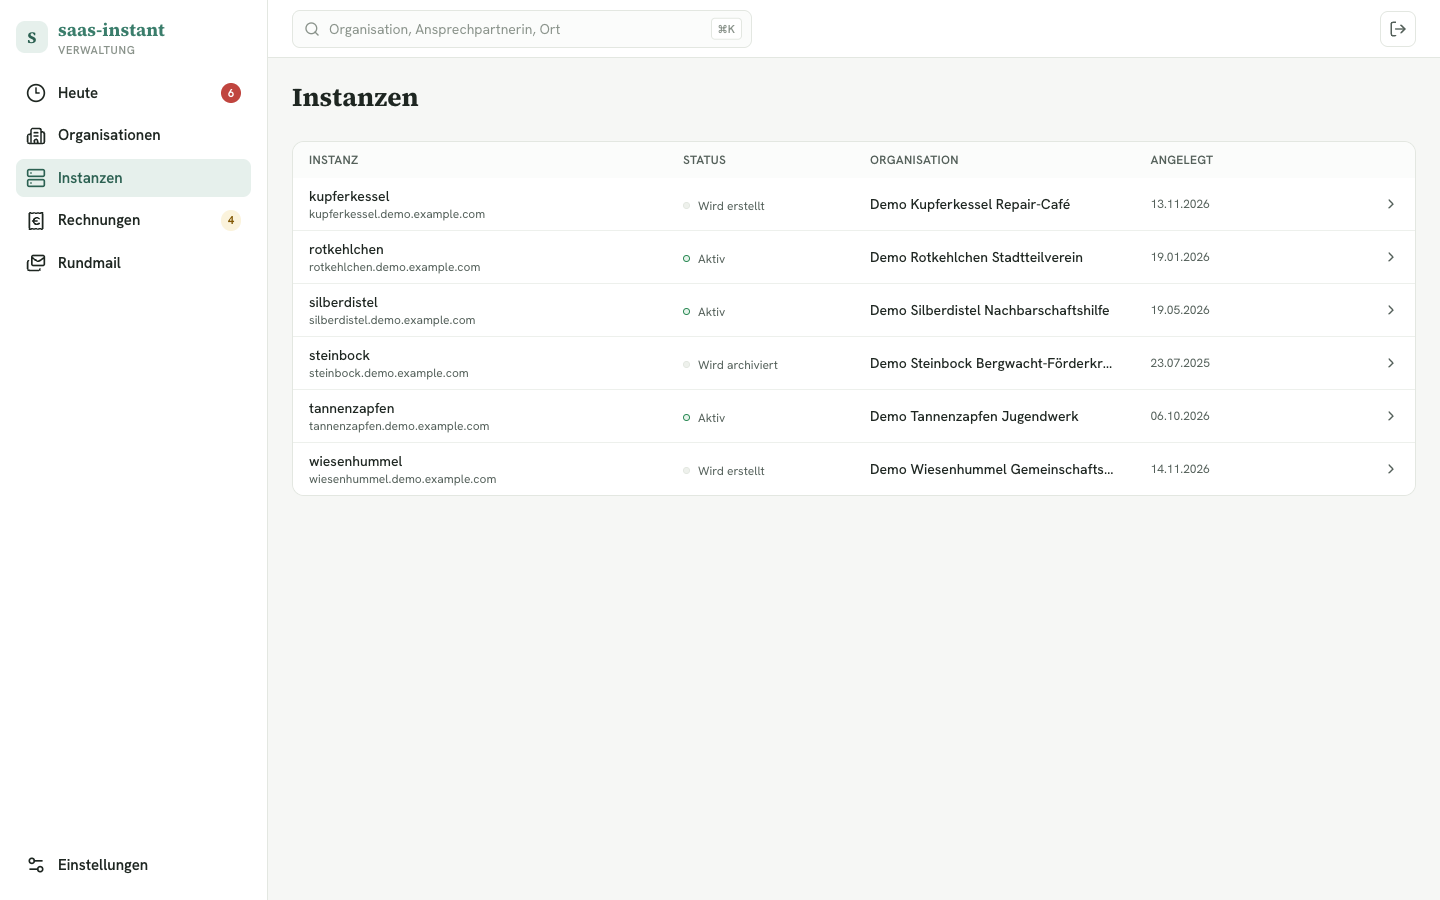
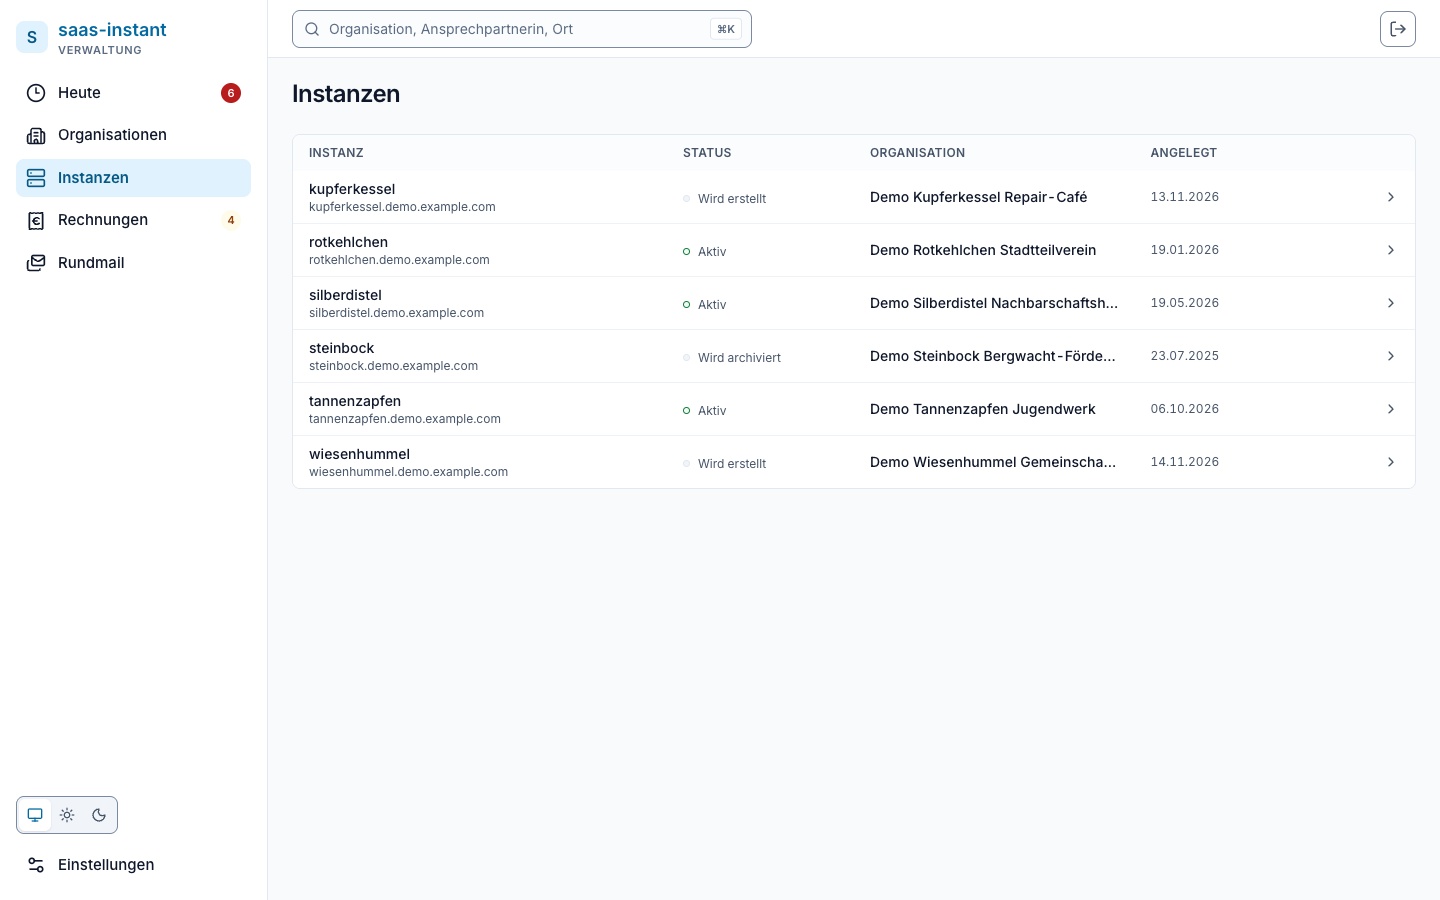
Doku: neue Screenshots, Teststand, Betriebs- und Sicherheitshinweise
- Screenshots im neuen Design (hell, dunkel, Portal)
- README: ehrlicher Teststand, Einschränkungen aktualisiert
- SECURITY, NOTICE, Betriebsdokumente an den Stand angepasst

diff --git a/docs/operations/security-model.md b/docs/operations/security-model.md
@@ -53,9 +53,10 @@ Anmeldemittel ersetzt der Betreiber im Container ([emergency-access.md](emergenc
 | E-Mail-Code | 8 Stellen, 10 Minuten gültig, nach 3 Fehleingaben verbrannt; die Zahl liegt bewusst unter der Kontosperre, damit man sich nicht durch Raten aussperrt |
 | Anmelderoute | 5 Versuche je Minute; übrige Routen 100 je Minute |
 | Antworten der Anmeldung | gleich für bekannte und unbekannte Konten, mit Scheinhash gegen Zeitunterschiede: die Anmeldeseite ist kein Kontoverzeichnis |
-| Sitzung | httpOnly-Cookie, `SameSite=Strict`, `Secure` hinter TLS, 30 Tage und erneuert sich bei Nutzung einmal je Tag |
+| Sitzung | httpOnly-Cookie, `SameSite=Strict`, `Secure` hinter TLS, 30 Tage und erneuert sich bei Nutzung einmal je Tag; absolute Obergrenze 90 Tage ab der Anmeldung, auch bei laufender Erneuerung |
 | laufender Anmeldevorgang | eigenes kurzlebiges Cookie, 10 Minuten |
-| Beenden aller Sitzungen | „Alle abmelden“, Passwortwechsel und jede Passkey-Änderung beenden sofort alle laufenden Sitzungen |
+| Beenden aller Sitzungen | „Abmelden“, „Alle abmelden“, Passwortwechsel und jede Passkey-Änderung beenden sofort alle laufenden Sitzungen des Kontos |
+| TOTP-Codes | einmalig verwendbar: der Zeitschritt des zuletzt angenommenen Codes wird gespeichert (atomar), derselbe Code wird nicht ein zweites Mal akzeptiert |
 | CSRF | Double-Submit-Cookie, ein Ausnahmeweg muss begründet sein (`@WithoutCsrf`) |
 
 **Zweiter Faktor für sensible Aktionen.** Zahlungsdaten ansehen, Zahlungen
@@ -78,7 +79,7 @@ Im Repository liegen nur Beispieldateien mit Platzhaltern (`.env.example`).
 
 | Geheimnis | Zweck | Besonderheit |
 |---|---|---|
-| `JWT_SECRET` | signiert Sitzungs- und Vorgangs-Token | fehlt es, startet die Anwendung nicht |
+| `JWT_SECRET` | signiert Sitzungs- und Vorgangs-Token | wird beim Start geprüft: mindestens 32 Zeichen und kein Beispielwert, sonst startet die Anwendung nicht |
 | `CONTROL_CONFIG_KEY` | Schlüssel für ruhende Geheimnisse (Abschnitt 4) | mindestens 32 Zeichen, **kein Entwicklungs-Fallback**; ohne ihn startet die Anwendung nicht |
 | `CONTROL_POSTGRES_PASSWORD` | Datenbank der Verwaltung | nur bei der ersten Einrichtung wirksam |
 | `CONTROL_BACKUP_KEY` | Meldeweg des Sicherungswerkzeugs | mindestens 32 Zeichen; ungesetzt existiert die Route nicht (404) |
@@ -148,7 +149,8 @@ gesicherte Backups. Das ist Aufgabe des Betreibers.
   verworfen, nicht halb übernommen.
 - Der Rechnungsdienst hat weder Anmeldung noch Rechteprüfung und gehört
   ausschließlich ins interne Netz, ohne Domain und ohne veröffentlichten Port.
-- `CONTROL_TRUST_PROXY` muss genau zur Zahl der Proxys passen (0, 1 oder 2). Zu hoch
+- Der Docker-Port von `control-web` ist standardmäßig an `127.0.0.1` gebunden (`CONTROL_WEB_BIND`). Wer ihn auf eine öffentliche Adresse legt, muss ihn per Firewall außerhalb von Docker schützen, weil `X-Forwarded-For` sonst frei wählbar ist.
+- `CONTROL_TRUST_PROXY` muss genau zur Zahl der Proxys passen (0, 1 oder 2; `CONTROL_INQUIRY_TRUST_PROXY` für den Anfrageweg je nach Kette 2 bis 4, siehe [installation.md](../installation.md)). Zu hoch
   macht die IP im Audit-Log und das Rate-Limit fälschbar, zu niedrig bewirkt nur,
   dass die Adresse des Proxys im Log steht.
 

diff --git a/README.md b/README.md
@@ -29,14 +29,15 @@ Alle Punkte sind im Code vorhanden; ob sie in Ihrer Umgebung laufen, hängt von 
 
 ## Screenshots
 
-Aufgenommen mit den frei erfundenen Demo-Daten aus `pnpm --filter @saas-instant/control seed:demo` (siehe [CONTRIBUTING.md](CONTRIBUTING.md)).
+Aufgenommen mit den frei erfundenen Demo-Daten aus `pnpm --filter @saas-instant/control seed:demo` (siehe [CONTRIBUTING.md](CONTRIBUTING.md)). Das Design ist bewusst neutral (Inter, Slate-Grau, ein ruhiger Blauakzent) und folgt automatisch dem hellen oder dunklen Farbschema des Systems; in der Seitenleiste lässt es sich auch von Hand umschalten.
 
 | | |
 |---|---|
 | ![Tagesübersicht](docs/screenshots/02-dashboard.png)<br>**Heute:** offene Aufgaben aus Rechnungen und Instanzen | ![Organisationen](docs/screenshots/03-companies.png)<br>**Organisationen** mit Status |
 | ![Organisation](docs/screenshots/04-company-detail.png)<br>**Organisation:** Kontakt, Verlauf, nächste Schritte | ![Instanzen](docs/screenshots/05-instances.png)<br>**Instanzen** je Organisation |
 | ![Rechnungen](docs/screenshots/06-invoices.png)<br>**Rechnungen** | ![Rechnung](docs/screenshots/07-invoice-detail.png)<br>**Rechnung** mit PDF/XML, Zahlung, Erinnerung |
-| ![Anmeldung](docs/screenshots/01-login.png)<br>**Anmeldung** mit Passkey oder Passwort + zweitem Faktor | ![Portal](docs/screenshots/09-portal.png)<br>**Portal** (Modus „Portal“): Liste der Verwaltungen |
+| ![Rechnungen, dunkel](docs/screenshots/06-invoices-dark.png)<br>**Dunkelmodus** | ![Anmeldung](docs/screenshots/01-login.png)<br>**Anmeldung** mit Passkey oder Passwort + zweitem Faktor |
+| ![Portal](docs/screenshots/09-portal.png)<br>**Portal** (Modus „Portal“): Liste der Verwaltungen | ![Portal, dunkel](docs/screenshots/09-portal-dark.png)<br>**Portal** im Dunkelmodus |
 
 ## Architektur in Kürze
 
@@ -104,6 +105,7 @@ Schritt für Schritt, mit TLS und Proxy-Hinweisen: [docs/installation.md](docs/i
 
 ## Einschränkungen in v1
 
+- **Teststand:** Unit-, Integrations- (echtes Postgres) und Oberflächentests sind grün; die Images (Verwaltung, Oberfläche, Portal, Rechnungsdienst) bauen, und der Stapel im Modus `single` startet über `install.sh` (Health-Check, Anmeldeseite, Anlegen des ersten Kontos). **Nicht geprüft:** der Modus `portal` mit echten Containern, das tatsächliche Erzeugen eines Rechnungs-PDF im Rechnungsdienst, Mailversand gegen einen echten SMTP-Server und der Betrieb hinter TLS.
 - **Nur Coolify** als Provisioner. Die Schnittstelle ist vorbereitet, ein zweiter Anbieter existiert nicht.
 - **Die Coolify-Anbindung ist nur gegen eine Attrappe getestet**, nicht gegen eine echte Coolify-Installation. Pfade und Abläufe sind aus einem funktionierenden Provisionierungsskript übernommen (`reference/provision-tenant.py`), aber nicht belegt. Rechnen Sie bei der ersten echten Inbetriebnahme mit Nacharbeit.
 - **Backend-Meldungen und Mailtexte sind nur deutsch.** Die Oberfläche ist über eine i18n-Schicht übersetzbar ([docs/i18n.md](docs/i18n.md)), liegt aber nur auf Deutsch vor.

diff --git a/README.en.md b/README.en.md
@@ -29,14 +29,15 @@ Everything listed exists in the code. Whether it works in your setup depends on 
 
 ## Screenshots
 
-Taken with the fictitious demo data from `pnpm --filter @saas-instant/control seed:demo` (see [CONTRIBUTING.md](CONTRIBUTING.md)). The interface is in German in v1.
+Taken with the fictitious demo data from `pnpm --filter @saas-instant/control seed:demo` (see [CONTRIBUTING.md](CONTRIBUTING.md)). The design is deliberately neutral (Inter, slate grays, one calm blue accent) and follows the system's light or dark color scheme automatically; it can also be switched by hand in the sidebar. The interface text is German in v1.
 
 | | |
 |---|---|
 | ![Daily overview](docs/screenshots/02-dashboard.png)<br>**Today:** open tasks from invoices and instances | ![Companies](docs/screenshots/03-companies.png)<br>**Companies** with status |
 | ![Company](docs/screenshots/04-company-detail.png)<br>**Company:** contact, history, next steps | ![Instances](docs/screenshots/05-instances.png)<br>**Instances** per company |
 | ![Invoices](docs/screenshots/06-invoices.png)<br>**Invoices** | ![Invoice](docs/screenshots/07-invoice-detail.png)<br>**Invoice** with PDF/XML, payment, reminder |
-| ![Sign-in](docs/screenshots/01-login.png)<br>**Sign-in** with passkey or password + second factor | ![Portal](docs/screenshots/09-portal.png)<br>**Portal** (mode "portal"): list of the managers |
+| ![Invoices, dark](docs/screenshots/06-invoices-dark.png)<br>**Dark mode** | ![Sign-in](docs/screenshots/01-login.png)<br>**Sign-in** with passkey or password + second factor |
+| ![Portal](docs/screenshots/09-portal.png)<br>**Portal** (mode "portal"): list of the managers | ![Portal, dark](docs/screenshots/09-portal-dark.png)<br>**Portal** in dark mode |
 
 ## Architecture at a glance
 
@@ -104,6 +105,7 @@ Step by step, with TLS and proxy notes (German): [docs/installation.md](docs/ins
 
 ## Limitations in v1
 
+- **Test status:** unit, integration (real Postgres) and UI tests are green; the images (manager, web, portal, invoice service) build, and the stack in `single` mode starts through `install.sh` (health check, sign-in page, creating the first account). **Not verified:** `portal` mode with real containers, actually rendering an invoice PDF in the invoice service, mail delivery against a real SMTP server, and operation behind TLS.
 - **Coolify only** as provisioner. The interface is prepared, but there is no second provider.
 - **The Coolify integration has only been tested against a mock**, not against a real Coolify installation. Paths and sequences were taken from a working provisioning script (`reference/provision-tenant.py`) but are not proven. Expect rework on first real use.
 - **Backend messages and mail texts are German only.** The UI goes through an i18n layer ([docs/i18n.md](docs/i18n.md)) but only a German dictionary exists.

diff --git a/docs/installation.md b/docs/installation.md
@@ -109,6 +109,14 @@ CONTROL_TRUST_PROXY=2
 
 Der TLS-Proxy muss `X-Forwarded-For` selbst setzen (anhängen oder überschreiben) und auf demselben Host laufen oder `CONTROL_WEB_BIND` auf seine Adresse stehen.
 
+Zum Betrieb gehört:
+
+- `JWT_SECRET` wird beim Start geprüft: mindestens 32 Zeichen und kein Beispielwert, sonst startet die Verwaltung nicht. `install.sh` erzeugt einen passenden Wert.
+- „Abmelden“ beendet alle Sitzungen des Kontos, nicht nur die des aktuellen Geräts.
+- Eine Sitzung endet spätestens 90 Tage nach der Anmeldung, auch wenn sie laufend erneuert wird.
+- Ein TOTP-Code ist nur einmal verwendbar; derselbe Code wird innerhalb seines Zeitfensters nicht ein zweites Mal angenommen.
+- Der Docker-Port von `control-web` ist standardmäßig an `127.0.0.1` gebunden (`CONTROL_WEB_BIND`, Vorgabe `127.0.0.1`).
+
 Danach `bin/saas-instant up <slug>` (Compose erzeugt den Container mit den neuen Werten neu).
 
 | Variable | Bedeutung und Folge bei falschem Wert |
@@ -119,7 +127,7 @@ Danach `bin/saas-instant up <slug>` (Compose erzeugt den Container mit den neuen
 | `CONTROL_RP_NAME` | Name im Passkey-Dialog des Browsers. |
 | `CONTROL_TOTP_ISSUER` | Name in der Authenticator-App. |
 | `CONTROL_TRUST_PROXY` | Anzahl der Proxys vor der API, denen `X-Forwarded-For` geglaubt wird: `1` = nur das mitgelieferte nginx in `control-web`, `2` = zusätzlich ein TLS-Proxy davor. Bestimmt die IP im Audit-Log und im Rate-Limit. Zu hoch ist gefährlich (ein selbst gesetzter `X-Forwarded-For` wird geglaubt, das Rate-Limit lässt sich umgehen), zu niedrig zeigt nur die Proxy-Adresse. Ein leerer Wert gilt als 0, ein ungültiger bricht den Start ab. |
-| `CONTROL_INQUIRY_TRUST_PROXY` | Dasselbe für den öffentlichen Anfrageweg, dessen Proxy-Kette länger sein kann (Compose-Vorgabe 2). |
+| `CONTROL_INQUIRY_TRUST_PROXY` | Dasselbe für den öffentlichen Anfrageweg (`/api/public`, `/api/consent/subscription`), dessen Kette länger ist, weil das Formular über das nginx der Webseite kommt. Die Zahl nennt, wie viele Einträge von rechts in `X-Forwarded-For` bis zum Besucher zu überspringen sind. Sie ist der Rückfall; Vorrang hat die Kopfzeile `x-sender-ip`, die das nginx der Webseite selbst schreibt. Sie greift nur mit gültigem `CONTROL_INQUIRY_KEY`. Vorgabe im mitgelieferten `docker-compose.yml`: `2` (Webseiten-nginx, `control-web`, keine weiteren Proxys). Steht davor ein TLS-Proxy, ist es `3`. Die Coolify-Referenz `reference/docker-compose.control.coolify.yml` hat zwei Traefik in der Kette (Traefik, Webseiten-nginx, Traefik, `control-web`) und steht deshalb auf `4`. Zu hoch macht die Herkunft im Nachweis und das Rate-Limit fälschbar, zu niedrig lässt alle Besucher ein Kontingent teilen. Ein ungültiger Wert (keine ganze Zahl >= 1) bricht den Start ab. |
 
 Hinweise zum Proxy:
 

diff --git a/SECURITY.md b/SECURITY.md
@@ -19,11 +19,12 @@ schreiben. Test- oder Beispielwerte genügen.
 
 ## Was danach geschieht
 
-Wir bestätigen den Eingang so bald wie möglich, prüfen die Meldung, stimmen eine
-Behebung im Advisory ab und veröffentlichen das Advisory erst, wenn eine
-korrigierte Fassung vorliegt. Auf Wunsch nennen wir die meldende Person als
-Entdecker. Eine feste Reaktionszeit können wir bei einem Projekt dieser Größe
-nicht zusagen.
+Wir haben die Absicht, den Eingang zeitnah zu bestätigen, die Meldung zu prüfen,
+eine Behebung im Advisory abzustimmen und das Advisory erst zu veröffentlichen,
+wenn eine korrigierte Fassung vorliegt. Auf Wunsch nennen wir die meldende Person
+als Entdecker. Das ist eine Absicht und keine Zusage: Eine feste Reaktionszeit
+können wir bei einem Projekt dieser Größe nicht garantieren. Weitere Meldewege
+(Telefon, E-Mail) gibt es nicht; bitte nur den oben beschriebenen Weg nutzen.
 
 ## Unterstützte Versionen
 
